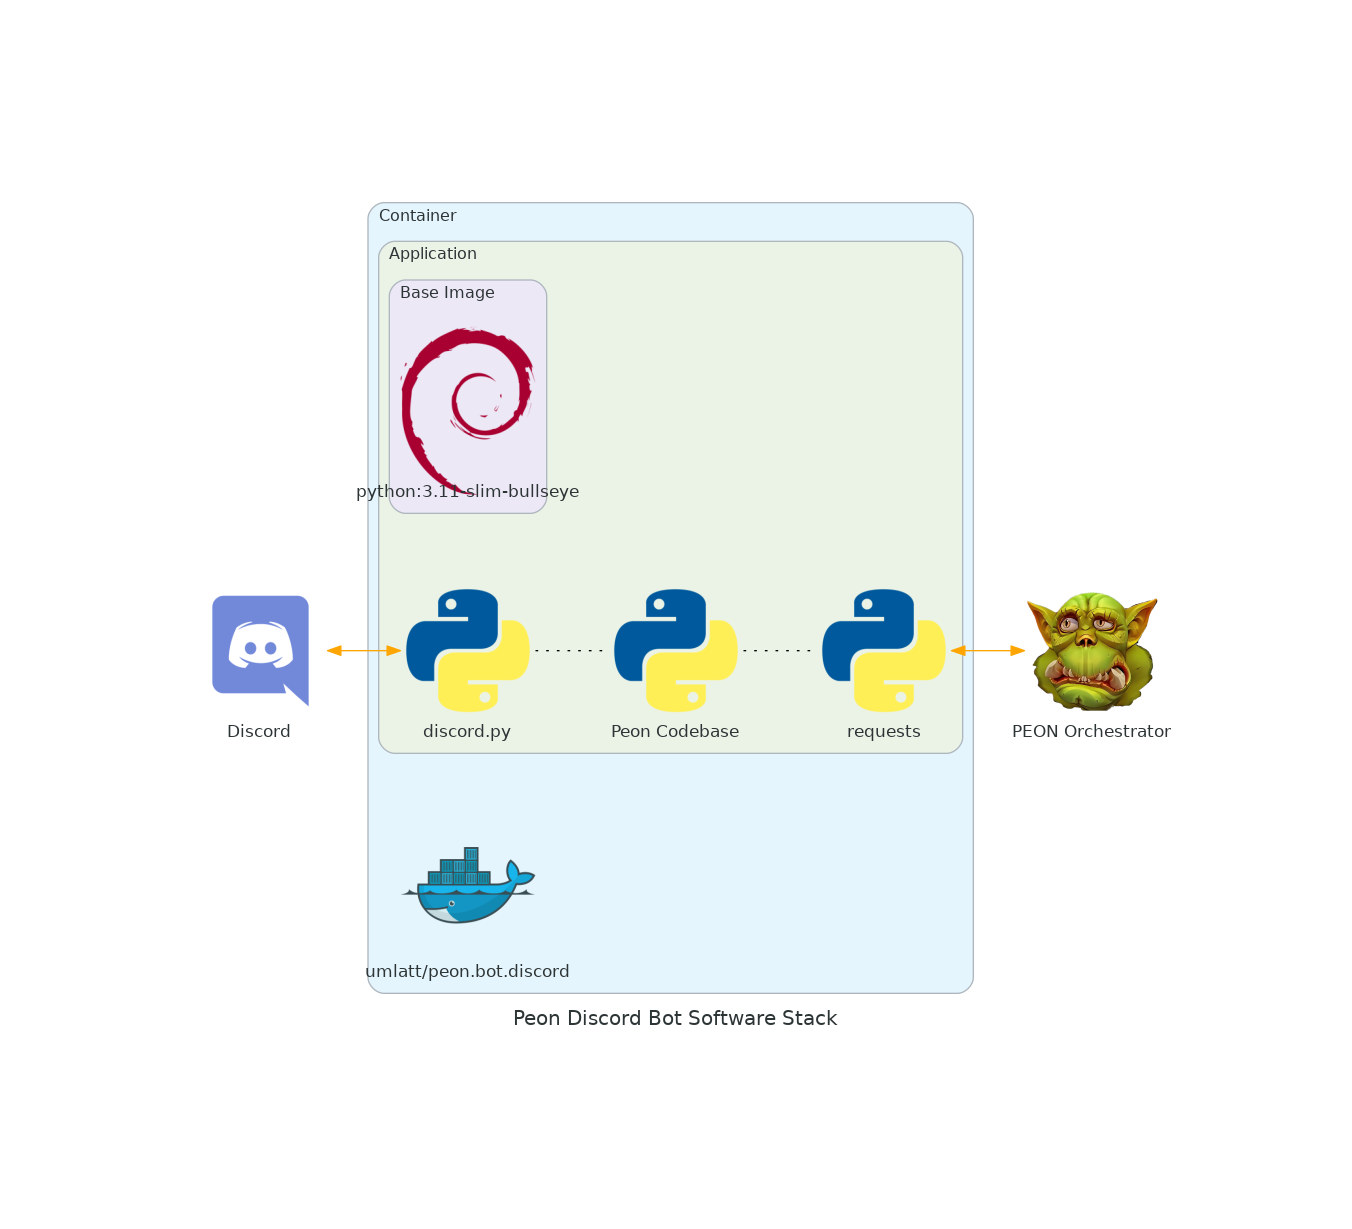
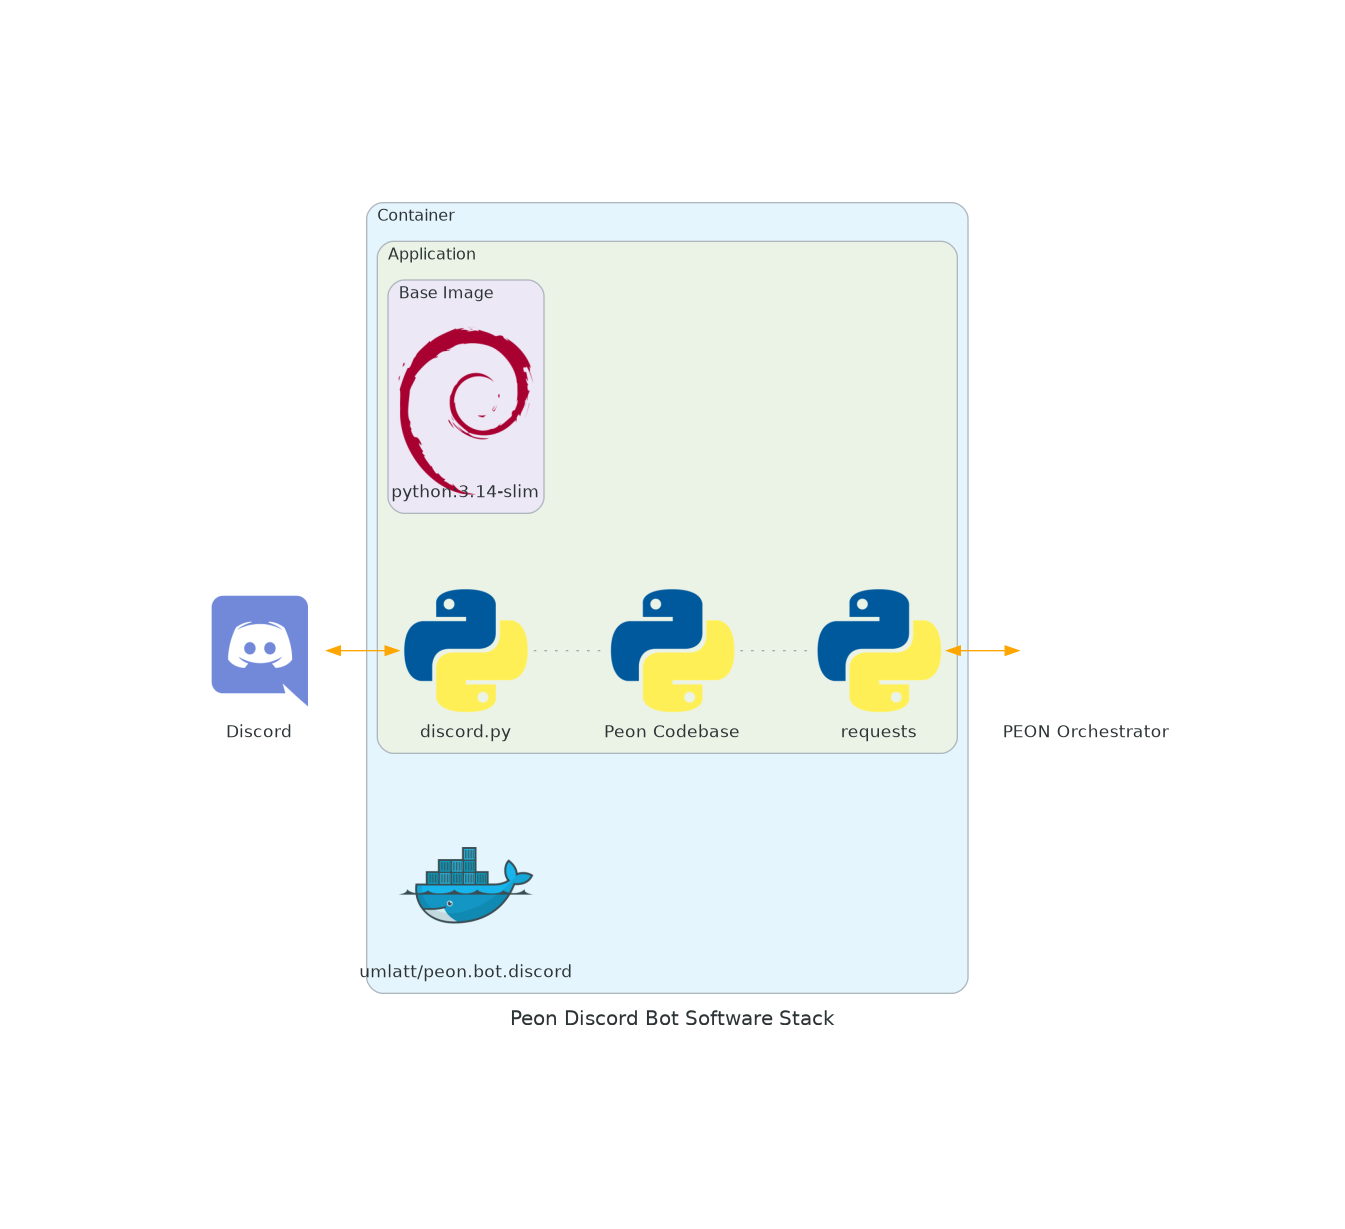
docs: reflect Python 3.14 + trixie base across service docs & diagrams
- Release notes added: orc 1.4.0, webui 0.2.0, bot 2.2.0 (base bump, dep
  cleanup, passlib->bcrypt)
- bot doc: Python requirement 3.11+ -> 3.14+
- diagram sources: base-image label python:3.11(-slim-bullseye) ->
  python:3.14-slim; fix diagrams-lib rename GitHub->Github; give the bot
  diagram its committed filename so regeneration lands in the right place
- regenerate diagram_orc.png + diagram_bot_discord.png

diff --git a/docs/diagram_definitions/software_stack_orc.py b/docs/diagram_definitions/software_stack_orc.py
@@ -2,7 +2,7 @@ from diagrams import Cluster, Diagram, Edge
 from diagrams.programming.framework import Flask
 from diagrams.programming.language import Python, Bash
 from diagrams.onprem.container import Docker
-from diagrams.onprem.vcs import GitHub
+from diagrams.onprem.vcs import Github
 from diagrams.generic.os import Debian
 from diagrams.programming.flowchart import Inspection
 from diagrams.oci.compute import OKE
@@ -21,7 +21,7 @@ with Diagram("Peon Orchestrator Software Stack", filename="../manual/docs/images
                 application = Python("Peon Codebase")
                 shell = Bash("Support Scripts")
                 with Cluster("Base Image"):
-                    os = Debian("python:3.11")
+                    os = Debian("python:3.14-slim")
                 framework - Edge(color=comms_container, style="dotted") - application
                 application - Edge(color=comms_container, style="dotted") - shell
         shell >> runtime
@@ -31,7 +31,7 @@ with Diagram("Peon Orchestrator Software Stack", filename="../manual/docs/images
         image_2 = Docker("Image.2")
         image_1 = Docker("Image.1")
     runtime << [image_n,image_2,image_1]
-    svc = GitHub("Plan Repository")
+    svc = Github("Plan Repository")
     svc << application
     endpoint = Inspection("REST API")
     endpoint >>  framework

diff --git a/docs/diagram_definitions/software_stack_bot_discord.py b/docs/diagram_definitions/software_stack_bot_discord.py
@@ -10,7 +10,7 @@ comms_http = "orange"
 comms_container_service = "red"
 comms_container = "darkgray"
 
-with Diagram("Peon Discord Bot Software Stack", show=False):
+with Diagram("Peon Discord Bot Software Stack", filename="../manual/docs/images/diagrams/diagram_bot_discord", show=False):
     with Cluster("Container"):
         Docker("umlatt/peon.bot.discord")
         with Cluster("Application"):
@@ -18,7 +18,7 @@ with Diagram("Peon Discord Bot Software Stack", show=False):
             application = Python("Peon Codebase")
             module = Python("requests")
             with Cluster("Base Image"):
-                os = Debian("python:3.11-slim-bullseye")
+                os = Debian("python:3.14-slim")
             framework - Edge(color=comms_container, style="dotted") - application
             application - Edge(color=comms_container, style="dotted") - module
     endpoint = Discord("Discord")

diff --git a/docs/manual/docs/development/50_bot_discord.md b/docs/manual/docs/development/50_bot_discord.md
@@ -22,7 +22,7 @@ The Discord Bot module provides an intuitive Discord interface for the PEON plat
 
 **Core Technologies:**
 - **Discord.py v2.0+**: Modern Discord API wrapper
-- **Python 3.11+**: Async/await patterns
+- **Python 3.14+**: Async/await patterns
 - **Docker**: Containerized deployment
 - **REST API**: Communicates with PEON Orchestrator
 
@@ -446,6 +446,10 @@ async def process_queue():
 - **[Docker Hub](https://hub.docker.com/repository/docker/umlatt/peon.bot.discord)**
 - **[Issue Tracker](https://github.com/the-peon-project/peon/issues)**
 - **[Discord Community](https://discord.gg/KJFVyayH8g)**
+
+**2.2.0**
+
+- [x] CHANGE :tools: Base image: Python 3.11 → 3.14 (latest stable, `python:3.14-slim` on Debian trixie); EOL `bullseye` snapshot pin retired. Unpinned deps (discord.py, aiohttp, requests, pytz) re-resolve fresh at build.
 
 **1.2.6**
 

diff --git a/docs/manual/docs/development/04_webui.md b/docs/manual/docs/development/04_webui.md
@@ -124,6 +124,12 @@ When WebUI and ORC are deployed in the same Docker stack, configure the orchestr
 
 ## Release Notes
 
+**0.2.0**
+
+- Base image: Python 3.11 → 3.14 (latest stable, `python:3.14-slim` on Debian trixie); EOL `bullseye` snapshot pin retired.
+- Backend requirements trimmed from a 123-entry freeze to the 10 direct dependencies the code imports; transitive deps resolve fresh at build.
+- Password hashing moved from unmaintained `passlib` to `bcrypt` directly (same `$2b$` format — existing password hashes still verify).
+
 **0.1.13**
 
 - Added server-level access management directly in the Servers page for server owners/admins.

diff --git a/docs/manual/docs/development/01_orchestrator.md b/docs/manual/docs/development/01_orchestrator.md
@@ -69,6 +69,10 @@ Here are some planned features
 
 ## Release Notes
 
+**1.4.0**
+
+- [x] CHANGE :tools: Base image: Python 3.11 → 3.14 (latest stable, `python:3.14-slim` on Debian trixie); EOL `bullseye` snapshot pin retired. Unpinned requirements (fastapi, uvicorn, docker, paramiko, apscheduler, gitpython) re-resolve fresh at build.
+
 **1.3.0 - DEVELOPMENT**
 
 **:zap: IMPACT RELEASE :zap:**
